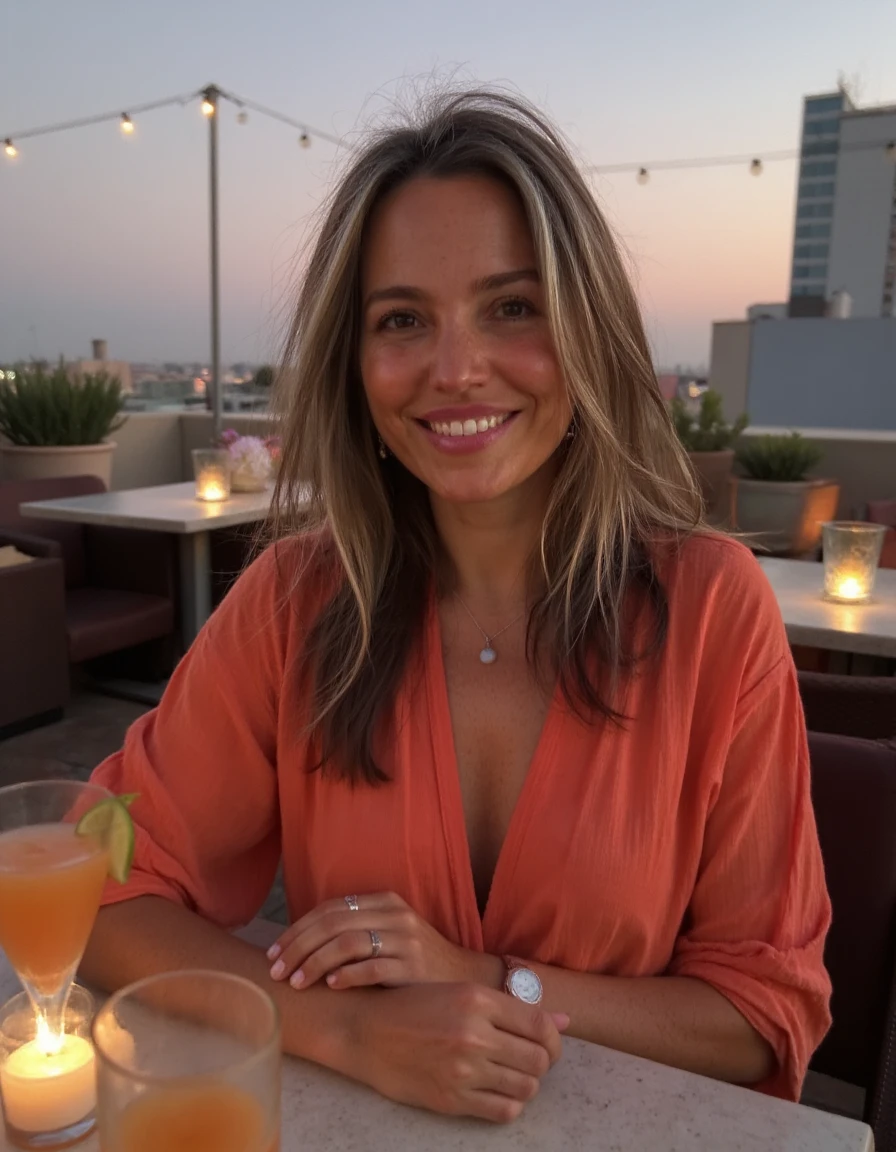
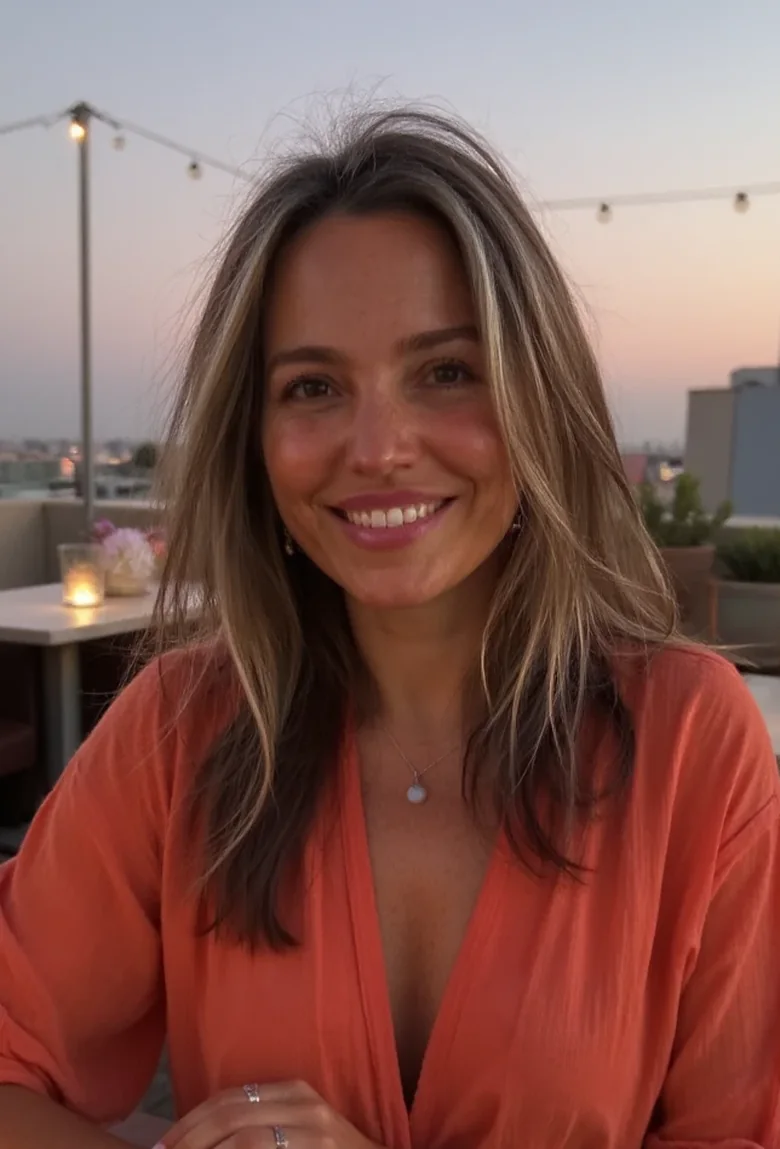
hero: Nathalie in slider (voor/na bijgesneden op ooglijn, align), Britt naar testimonials-raster

diff --git a/app/page.tsx b/app/page.tsx
@@ -50,14 +50,14 @@ export default function HomePage() {
     { name: 'Roy',    before: '/images/roy-before.jpg',    after: '/images/roy-after.webp' },
     { name: 'Mims',   before: '/images/mims-before.jpeg',  after: '/images/mims-after.webp' },
     { name: 'Alja',   before: '/images/alja-before.jpg',   after: '/images/alja-after.webp' },
-    { name: 'Nathalie', before: '/images/nathalie-before.jpg', after: '/images/nathalie-after.webp' },
+    { name: 'Britt',  before: '/images/britt-before.jpg',  after: '/images/britt-after.webp' },
   ]
 
   // Hero-carrousel: meerdere voor/na-voorbeelden met thumbnails (BetterPic-stijl)
   const heroExamples: HeroExample[] = [
     { name: 'Renata', before: '/images/renata-before.jpg', after: '/images/renata-after.jpg', align: true },
     { name: 'Stijn', before: '/images/stijn-before.jpg', after: '/images/stijn-after.jpg' },
-    { name: 'Britt', before: '/images/britt-before.jpg', after: '/images/britt-after.webp', align: true },
+    { name: 'Nathalie', before: '/images/nathalie-before.jpg', after: '/images/nathalie-after.webp', align: true },
     { name: 'featured', before: '/images/before.jpeg', after: '/images/headshot-42.webp' },
   ]
 
